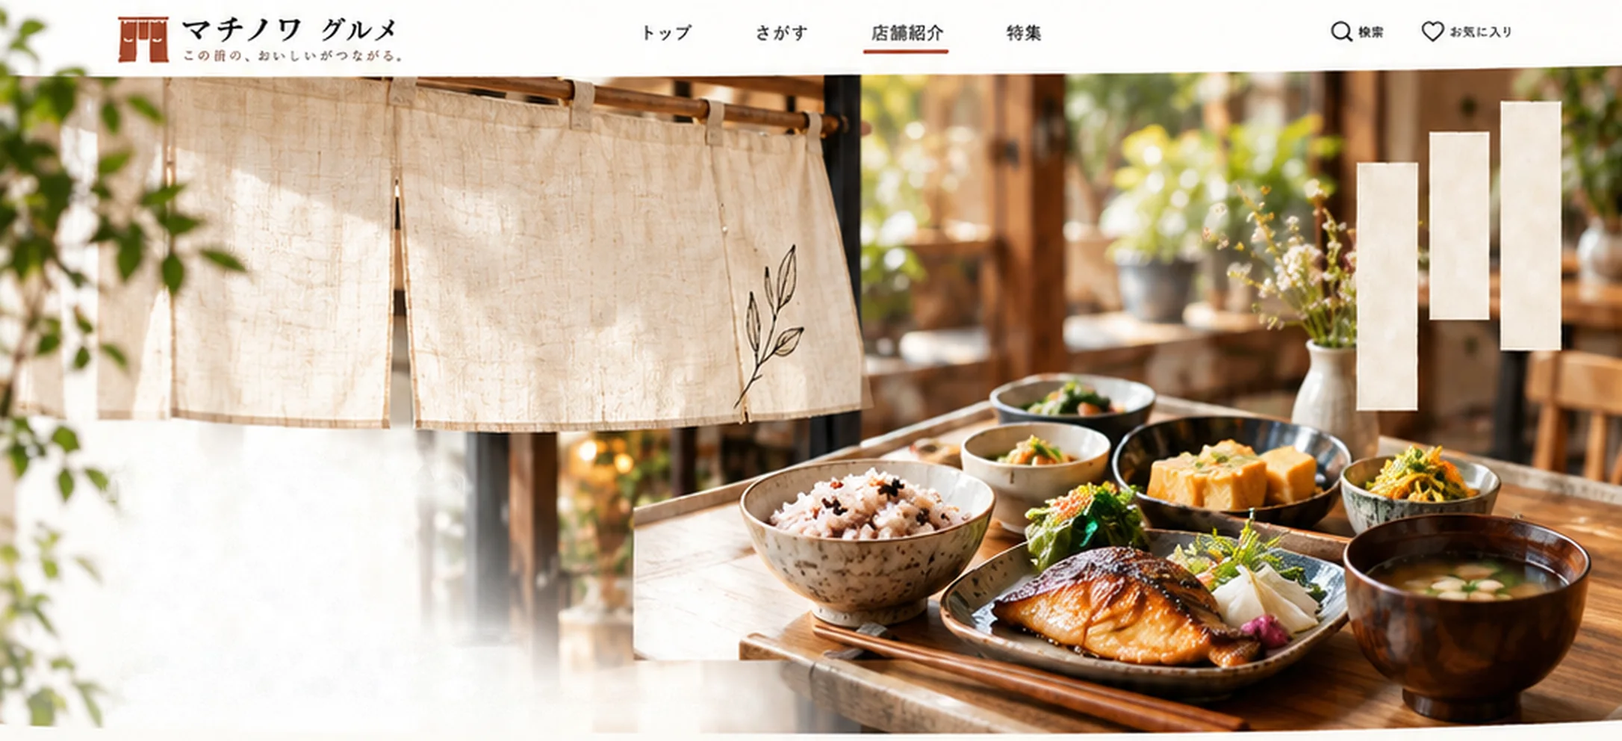
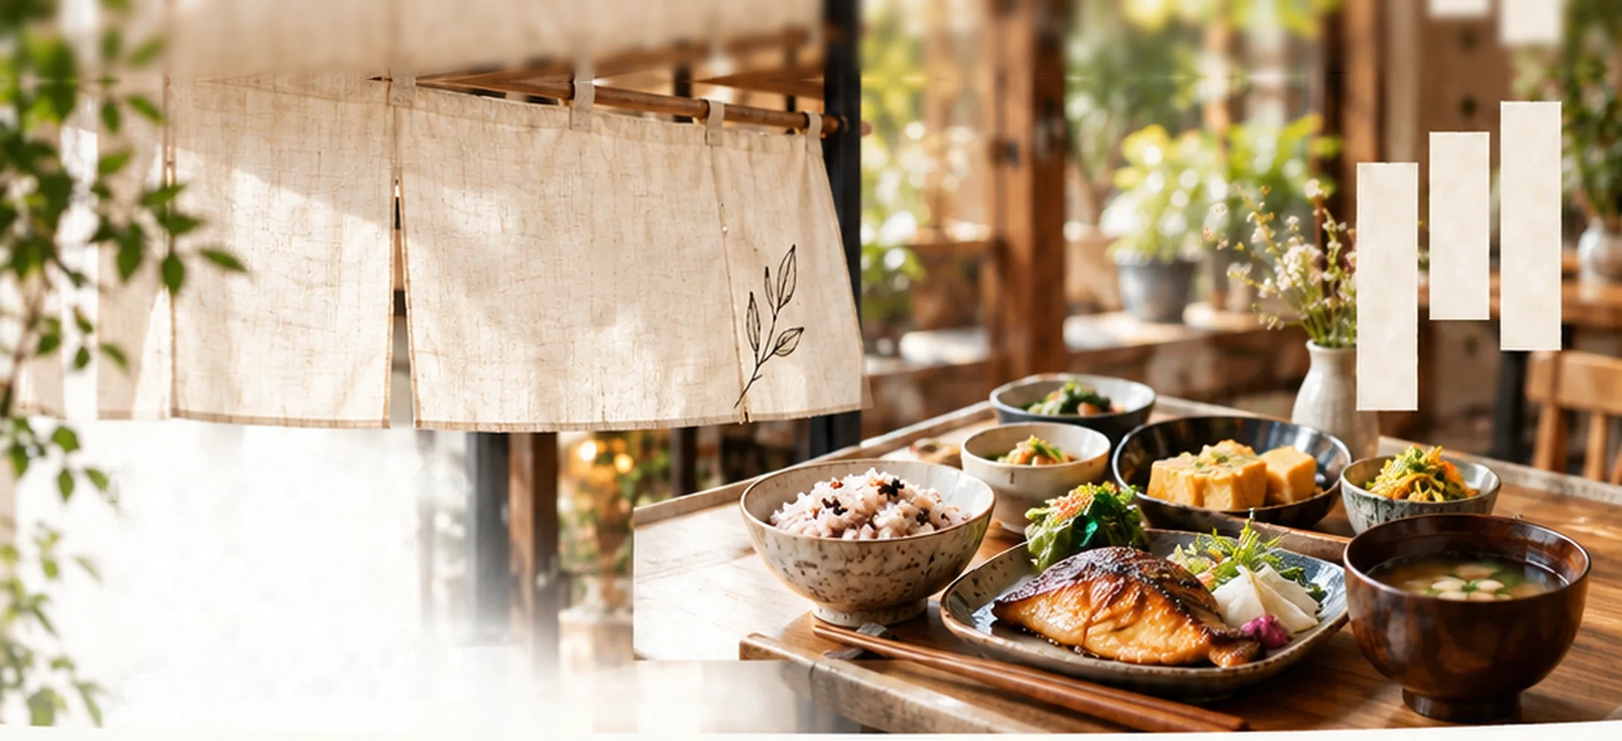
fix(gourmet-proto): 暖簾2 レビュー指摘の修正(ライトボックス portal 化・検索クリア・横持ちスマホ・1920 端・画像ゴースト・コントラスト・タップ領域)
- 店のライトボックスを createPortal で body へ(ヘッダーまで全面を覆う・背景スクロール固定・Tab 循環)。CSS は .gn-root 外で完結
- 検索「条件をクリア」をタイトルの流れの中へ(PC でタイトルと重なって押せなかった)
- 横持ちスマホ(orientation:landscape かつ高さ500px以下)も縮小PCでなくスマホ版に(@media の条件を全ページ共通に)
- 店ヒーロー画像の見本ヘッダー跡を除去 / 1440px 超でヒーロー左右端を地へ溶かす(top 以外 4 ページ)
- feature の shopfront.webp のボタン断片を除去し、スマホは左だけを切り出し
- 検索リスト表示の未選択ハートをテラコッタ線に
- スマホの写真上の文字に幕(特集カード・店のシーンカード)
- フッター/パンくずのタップ領域 44px・ロゴ標語 10px・検索プレースホルダをスマホで短縮

Changed region(s): [[0.0, 0.0, 1.0, 0.125]]

diff --git a/components/portal/gnoren/shop/shop.css b/components/portal/gnoren/shop/shop.css
@@ -18,21 +18,42 @@
   .gn-shop-strips { animation-delay: .25s; }
 }
 
-/* ライトボックス */
-.gn-shop-lb { position: fixed; inset: 0; z-index: 200; background: rgba(28, 22, 18, .88); display: grid; place-items: center; padding: 24px; }
-.gn-shop-lb-fig { margin: 0; max-width: min(1100px, 100%); display: grid; gap: 10px; justify-items: center; }
-.gn-shop-lb-fig img { max-width: 100%; max-height: 78vh; width: auto; height: auto; border-radius: 6px; box-shadow: 0 10px 40px rgba(0, 0, 0, .5); background: #222; }
+/* ライトボックス(Gallery.tsx が document.body へ portal で出す。.gn-root / .gn-shop の外なので、ここだけで完結させる)
+   画面全体(ヘッダーの上)を覆う。書体は next/font の変数(--gn-gothic)を Gallery が付ける。 */
+.gn-shop-lb { position: fixed; inset: 0; z-index: 10000; background: rgba(28, 22, 18, .9); display: grid; place-items: center; padding: 56px 84px; overscroll-behavior: contain; font-family: var(--gn-gothic), "Zen Kaku Gothic New", "Hiragino Kaku Gothic ProN", "Noto Sans JP", sans-serif; line-height: 1.6; -webkit-font-smoothing: antialiased; }
+.gn-shop-lb, .gn-shop-lb * { box-sizing: border-box; cursor: auto; }
+.gn-shop-lb button { cursor: pointer; font: inherit; }
+.gn-shop-lb-fig { margin: 0; padding: 0; width: 100%; display: grid; gap: 12px; justify-items: center; }
+/* 切り出した小さい写真でも画面いっぱいまで拡大して見せる(縦横比は --ar。高さ・幅のどちらか先に届くほうで止める) */
+.gn-shop-lb { --lb-h: calc(100vh - 140px); --lb-h: calc(100dvh - 140px); }
+.gn-shop-lb-ph { width: min(100%, 1100px, calc(var(--lb-h) * var(--ar, 1.5))); aspect-ratio: var(--ar, 1.5); overflow: hidden; border-radius: 6px; box-shadow: 0 10px 40px rgba(0, 0, 0, .5); background: #222; }
+/* 切り出し画像の縁に見本由来の白いにじみが 2〜4px あるので、少し拡大して隠す */
+.gn-shop-lb-ph img { display: block; width: 100%; height: 100%; max-width: none; object-fit: cover; transform: scale(1.045); }
 .gn-shop-lb-fig figcaption { color: #f1e9de; font-size: 14px; letter-spacing: .06em; text-align: center; }
-.gn-shop-lb-close, .gn-shop-lb-nav { position: absolute; width: 48px; height: 48px; border-radius: 50%; border: 1px solid rgba(255, 255, 255, .35); background: rgba(255, 255, 255, .1); color: #fff; display: grid; place-items: center; padding: 0; cursor: pointer; }
-.gn-shop-lb-close:hover, .gn-shop-lb-nav:hover { background: rgba(255, 255, 255, .22); }
+.gn-shop-lb-close, .gn-shop-lb-nav { position: absolute; width: 48px; height: 48px; border-radius: 50%; border: 1px solid rgba(255, 255, 255, .45); background: rgba(40, 32, 26, .6); color: #fff; display: grid; place-items: center; padding: 0; margin: 0; }
+.gn-shop-lb-close:hover, .gn-shop-lb-nav:hover { background: rgba(255, 255, 255, .24); }
 .gn-shop-lb-close { top: 16px; right: 16px; }
 .gn-shop-lb-nav { top: 50%; margin-top: -24px; }
-.gn-shop-lb-prev { left: 14px; } .gn-shop-lb-next { right: 14px; }
+.gn-shop-lb-prev { left: 16px; } .gn-shop-lb-next { right: 16px; }
 .gn-shop-lb svg { width: 22px; height: 22px; fill: none; stroke: currentColor; stroke-width: 1.8; stroke-linecap: round; stroke-linejoin: round; }
 .gn-shop-lb button:focus-visible { outline: 2px solid #fff; outline-offset: 2px; }
+/* 縦持ちのスマホ・狭い画面: 前へ/次へは下に並べて、写真を幅いっぱいに見せる */
+@media (max-width: 768px) and (orientation: portrait) {
+  .gn-shop-lb { padding: 72px 12px 92px; }
+  .gn-shop-lb { --lb-h: calc(100vh - 230px); --lb-h: calc(100dvh - 230px); }
+  .gn-shop-lb-nav { top: auto; bottom: 20px; margin-top: 0; }
+  .gn-shop-lb-prev { left: 20px; } .gn-shop-lb-next { right: 20px; }
+}
+/* 横持ちのスマホ(高さが低い): 写真を縦いっぱいに */
+@media (orientation: landscape) and (max-height: 500px) {
+  .gn-shop-lb { padding: 12px 76px; }
+  .gn-shop-lb-fig { gap: 6px; }
+  .gn-shop-lb { --lb-h: calc(100vh - 56px); --lb-h: calc(100dvh - 56px); }
+  .gn-shop-lb-fig figcaption { font-size: 13px; }
+}
 
 /* ═════════ PC ═════════ */
-@media (min-width: 769px) {
+@media (min-width: 769px) and (min-height: 501px) {
   .gn-shop { padding-bottom: calc(var(--u) * 30); }
   .gn-shop-hero { height: calc(var(--u) * 496); }
   .gn-shop-herobg { position: absolute; inset: 0; width: 100%; height: 100%; max-width: none; }
@@ -155,7 +176,7 @@
 }
 
 /* ═════════ スマホ(≤768px) ═════════ */
-@media (max-width: 768px) {
+@media (max-width: 768px), (orientation: landscape) and (max-height: 500px) {
   .gn-shop { padding-bottom: 40px; }
   .gn-shop-h2 { font-size: 22px; line-height: 1.4; letter-spacing: .06em; }
 
@@ -252,6 +273,12 @@
   .gn-shop-sc-list { display: grid; grid-template-columns: 1fr 1fr; gap: 12px; margin-top: 12px; }
   .gn-shop-sc { position: relative; height: 116px; border-radius: 6px; overflow: hidden; }
   .gn-shop-sc img { width: 100%; height: 100%; object-fit: cover; max-width: none; }
-  .gn-shop-sc-t { position: absolute; left: 14px; top: 50%; transform: translateY(-50%); margin: 0; font-size: 17px; line-height: 1.5; letter-spacing: .06em; color: #fff; font-weight: 500; text-shadow: 0 1px 6px rgba(50, 30, 15, .55); }
+  .gn-shop-sc::after { content: ""; position: absolute; inset: 0; pointer-events: none; background: linear-gradient(90deg, rgba(34, 20, 12, .52) 0%, rgba(34, 20, 12, .32) 55%, rgba(34, 20, 12, .06) 100%), linear-gradient(0deg, rgba(34, 20, 12, .25), transparent 50%); }
+  .gn-shop-sc-t { z-index: 1; position: absolute; left: 14px; top: 50%; transform: translateY(-50%); margin: 0; font-size: 17px; line-height: 1.5; letter-spacing: .06em; color: #fff; font-weight: 500; text-shadow: 0 1px 6px rgba(50, 30, 15, .55); }
   .gn-shop-sc-t span { display: block; }
+}
+
+/* 1440px より広い画面: ヒーロー写真の左右の端を地へ溶かす(1440px 以下は何も変えない) */
+@media (min-width: 1441px) and (min-height: 501px) {
+  .gn-shop-herobg { -webkit-mask-image: linear-gradient(90deg, transparent, #000 5%, #000 95%, transparent); mask-image: linear-gradient(90deg, transparent, #000 5%, #000 95%, transparent); }
 }

diff --git a/components/portal/gnoren/search/search.css b/components/portal/gnoren/search/search.css
@@ -118,11 +118,11 @@
 /* ───────── 検索結果(853〜) ───────── */
 .gn-search-results { position: relative; padding: calc(var(--u) * 22) calc(var(--u) * 46) calc(var(--u) * 8) calc(var(--u) * 40); min-height: calc(var(--u) * 595); }
 .gn-search-rhead { position: relative; display: flex; align-items: center; height: calc(var(--u) * 34); margin-bottom: 0; }
-.gn-search-rtitle { position: absolute; left: 0; top: 0; height: calc(var(--u) * 34); display: flex; align-items: flex-end; gap: 0; font-family: var(--gn-f-mincho); color: #1f1a17; line-height: 1; }
+.gn-search-rtitle { position: relative; flex: none; height: calc(var(--u) * 34); display: flex; align-items: flex-end; gap: 0; font-family: var(--gn-f-mincho); color: #1f1a17; line-height: 1; }
 .gn-search-rtitle-l { font-weight: 600; font-size: calc(var(--u) * 17.5); letter-spacing: .06em; margin-bottom: calc(var(--u) * 4); }
 .gn-search-rtitle b { margin-left: calc(var(--u) * 17); font-weight: 500; font-size: calc(var(--u) * 41); color: var(--gn-red-num); letter-spacing: .01em; }
 .gn-search-rtitle-r { margin-left: calc(var(--u) * 5); font-weight: 600; font-size: calc(var(--u) * 13.4); margin-bottom: calc(var(--u) * 1); }
-.gn-search .gn-search-clear { margin-left: calc(var(--u) * 24); font-size: max(11px, calc(var(--u) * 11)); color: var(--gn-terracotta); text-decoration: underline; text-underline-offset: 3px; }
+.gn-search .gn-search-clear { position: relative; z-index: 1; flex: none; margin-left: calc(var(--u) * 24); padding: calc(var(--u) * 6) calc(var(--u) * 2); font-size: max(11px, calc(var(--u) * 11)); color: var(--gn-terracotta); text-decoration: underline; text-underline-offset: 3px; }
 .gn-search-sort { position: absolute; left: calc(var(--u) * 797); top: calc(var(--u) * 0); width: calc(var(--u) * 121); height: calc(var(--u) * 29); display: block; border-radius: calc(var(--u) * 5); background: #fff; box-shadow: 0 0 0 1px #e8e1d7, 0 1px 3px rgba(90, 70, 50, .06); }
 .gn-search-sort select { width: 100%; height: 100%; border: 0; border-radius: inherit; background: transparent; padding: 0 calc(var(--u) * 24) 0 calc(var(--u) * 10); font: inherit; font-size: calc(var(--u) * 10.3); font-weight: 500; letter-spacing: .06em; color: #3a332e; -webkit-appearance: none; appearance: none; cursor: pointer; }
 .gn-search-sort svg { position: absolute; right: calc(var(--u) * 11); top: 50%; width: calc(var(--u) * 8); margin-top: calc(var(--u) * -2.5); height: auto; pointer-events: none; color: #3a2f28; }
@@ -183,9 +183,11 @@
 .gn-search[data-view="list"] .gn-search-card-name { font-size: calc(var(--u) * 17); }
 .gn-search[data-view="list"] .gn-search-card-desc br { display: none; }
 .gn-search[data-view="list"] .gn-search-heart, .gn-search[data-view="list"] .gn-search-card:nth-child(n + 5) .gn-search-heart { top: calc(var(--u) * 12); }
+/* リスト表示ではハートが白いカード本体の上に乗るので、未選択は白でなくテラコッタの線にする(グリッド表示は写真の上なので白のまま) */
+.gn-search[data-view="list"] .gn-search-heart[data-on="0"] span { background: #fff; color: #a8472c; box-shadow: inset 0 0 0 1.5px rgba(168, 71, 44, .6), 0 1px 3px rgba(80, 60, 40, .12); backdrop-filter: none; }
 
 /* ───────── スマホ(≤768px) ───────── */
-@media (max-width: 768px) {
+@media (max-width: 768px), (orientation: landscape) and (max-height: 500px) {
   .gn-search { width: 100%; }
   .gn-search-hero { height: auto; }
   .gn-search-hero-img { position: relative; inset: auto; display: block; width: 100%; height: 210px; object-fit: cover; object-position: 66% 40%; object-view-box: inset(14.8% 0 0 0); }
@@ -297,11 +299,16 @@
   .gn-search[data-view="list"] .gn-search-heart { right: 0; top: 0; }
   .gn-search-empty { margin-top: 8px; padding: 36px 16px; }
 }
-@media (min-width: 560px) and (max-width: 768px) {
+@media (min-width: 560px) and (max-width: 768px), (min-width: 560px) and (orientation: landscape) and (max-height: 500px) {
   .gn-search-grid { grid-template-columns: 1fr 1fr; gap: 16px; }
   .gn-search[data-view="list"] .gn-search-grid { grid-template-columns: 1fr; }
   .gn-search-hero-img { height: 290px; }
 }
 @media (prefers-reduced-motion: reduce) {
   .gn-search *, .gn-search *::before, .gn-search *::after { transition: none !important; animation: none !important; }
+}
+
+/* 1440px より広い画面: ヒーロー写真の左右の端を地へ溶かす */
+@media (min-width: 1441px) and (min-height: 501px) {
+  .gn-search-hero-img { -webkit-mask-image: linear-gradient(90deg, transparent, #000 5%, #000 95%, transparent); mask-image: linear-gradient(90deg, transparent, #000 5%, #000 95%, transparent); }
 }

diff --git a/components/portal/gnoren/shop/Gallery.tsx b/components/portal/gnoren/shop/Gallery.tsx
@@ -1,11 +1,17 @@
 "use client";
 
 import { useCallback, useEffect, useRef, useState } from "react";
+import { createPortal } from "react-dom";
+import { gothic } from "../common/fonts";
 import { GALLERY } from "./data";
 
 const IMG = "/_portal/gnoren/shop";
 
-/** 店内の様子。写真を押すと簡単なライトボックス(Esc・閉じるボタン・背景クリック・←→ で閉じる/移動)。 */
+/**
+ * 店内の様子。写真を押すと簡単なライトボックス(Esc・閉じるボタン・背景クリック・←→ で閉じる/移動)。
+ * ライトボックスは document.body へ createPortal で出す(祖先に transform=スクロールで出る動き / container-type があると
+ * position:fixed がその祖先の中に閉じ込められるため)。そのため CSS は .gn-root / .gn-shop の外でも効くように書く(shop.css の .gn-shop-lb*)。
+ */
 export default function Gallery() {
   const [open, setOpen] = useState<number | null>(null);
   const lastBtn = useRef<HTMLButtonElement | null>(null);
@@ -20,9 +26,19 @@ export default function Gallery() {
     if (open === null) return;
     const prev = document.body.style.overflow;
     document.body.style.overflow = "hidden";
+    const prevHtml = document.documentElement.style.overflow;
+    document.documentElement.style.overflow = "hidden";
     closeRef.current?.focus();
     const onKey = (e: KeyboardEvent) => {
-      if (e.key === "Escape") close();
+      if (e.key === "Tab") {
+        // ダイアログの外へフォーカスが出ないように、中のボタンだけで回す
+        const btns = Array.from(document.querySelectorAll<HTMLButtonElement>(".gn-shop-lb button"));
+        if (btns.length === 0) return;
+        const i = btns.indexOf(document.activeElement as HTMLButtonElement);
+        const next = e.shiftKey ? (i <= 0 ? btns.length - 1 : i - 1) : i === btns.length - 1 ? 0 : i + 1;
+        e.preventDefault();
+        btns[next].focus();
+      } else if (e.key === "Escape") close();
       else if (e.key === "ArrowRight") setOpen((i) => (i === null ? i : (i + 1) % GALLERY.length));
       else if (e.key === "ArrowLeft") setOpen((i) => (i === null ? i : (i - 1 + GALLERY.length) % GALLERY.length));
     };
@@ -30,6 +46,7 @@ export default function Gallery() {
     return () => {
       window.removeEventListener("keydown", onKey);
       document.body.style.overflow = prev;
+      document.documentElement.style.overflow = prevHtml;
     };
   }, [open, close]);
 
@@ -54,8 +71,9 @@ export default function Gallery() {
         ))}
       </ul>
 
-      {open !== null && (
-        <div className="gn-shop-lb" role="dialog" aria-modal="true" aria-label="店内の写真" onClick={close}>
+      {open !== null &&
+        createPortal(
+        <div className={`gn-shop-lb ${gothic.variable}`} role="dialog" aria-modal="true" aria-label="店内の写真" onClick={close}>
           <button ref={closeRef} type="button" className="gn-shop-lb-close" aria-label="閉じる" onClick={close}>
             <svg viewBox="0 0 24 24" aria-hidden="true">
               <path d="M5 5l14 14M19 5 5 19" />
@@ -75,8 +93,10 @@ export default function Gallery() {
             </svg>
           </button>
           <figure className="gn-shop-lb-fig" onClick={(e) => e.stopPropagation()}>
-            {/* eslint-disable-next-line @next/next/no-img-element */}
-            <img src={`${IMG}/${GALLERY[open].img}.webp`} alt={GALLERY[open].alt} />
+            <div className="gn-shop-lb-ph" style={{ "--ar": GALLERY[open].w / GALLERY[open].h } as React.CSSProperties}>
+              {/* eslint-disable-next-line @next/next/no-img-element */}
+              <img src={`${IMG}/${GALLERY[open].img}.webp`} alt={GALLERY[open].alt} width={GALLERY[open].w} height={GALLERY[open].h} />
+            </div>
             <figcaption>
               {GALLERY[open].alt}({open + 1} / {GALLERY.length})
             </figcaption>
@@ -94,7 +114,8 @@ export default function Gallery() {
               <path d="M9 5l7 7-7 7" />
             </svg>
           </button>
-        </div>
+        </div>,
+        document.body,
       )}
     </>
   );

diff --git a/components/portal/gnoren/feature/feature.css b/components/portal/gnoren/feature/feature.css
@@ -92,7 +92,7 @@
 }
 
 /* ───────── スマホ(≤768px): 縦 1 列 ───────── */
-@media (max-width: 768px) {
+@media (max-width: 768px), (orientation: landscape) and (max-height: 500px) {
   .gn-feat { --step: 0px; padding-bottom: 0; }
   .gn-feat-br { display: none; }
 
@@ -101,7 +101,7 @@
   .gn-feat .gn-feat-hero-img { display: none; }
   .gn-feat-hero-img-m { order: 3; width: 100%; height: auto; aspect-ratio: 498 / 388; margin-top: 18px; }
   .gn-feat-crumb { order: 1; display: flex; flex-wrap: wrap; align-items: center; gap: 0 8px; padding: 4px 16px 0; font-size: 12px; letter-spacing: .06em; color: #5a504a; }
-  .gn-feat-crumb a { display: inline-flex; align-items: center; min-height: 44px; padding-inline: 2px; }
+  .gn-feat-crumb a { display: inline-flex; align-items: center; justify-content: center; min-height: 44px; min-width: 44px; padding-inline: 4px; }
   .gn-feat-crumb [aria-current] { display: inline-flex; align-items: center; min-height: 44px; }
   .gn-feat-card { order: 2; position: relative; margin: 6px 14px 0; padding: 44px 22px 26px; }
   .gn-feat-card-bg { position: absolute; inset: 0; background-color: #f4efe6; box-shadow: none; clip-path: polygon(0.5% 2%, 30% 0.6%, 62% 1.4%, 99.5% 0, 100% 40%, 99% 99.5%, 60% 100%, 28% 99%, 0 100%, 0.6% 50%); filter: drop-shadow(0 2px 4px rgba(60, 40, 20, .18)); }
@@ -191,9 +191,9 @@
   .gn-feat-shop-list a { display: inline-flex; align-items: center; min-height: 44px; margin-block: -10px; }
   .gn-feat-btn { display: flex; width: 100%; min-height: 52px; margin-top: 20px; gap: 12px; font-size: 15px; }
   .gn-feat-btn-arrow { width: 26px; }
-  .gn-feat-frame { margin: 14px auto 0; padding: 5px; width: min(100%, 280px); aspect-ratio: 111 / 136; }
-  .gn-feat-frame img { object-position: 0 0 !important; }
-  .gn-feat-frame img { object-position: 0 50%; }
+  /* 元画像(326×314)は右にメモ紙の端が写っているので、左の 195×270 だけを使う(スマホは横長の写真の左上を切り出す) */
+  .gn-feat-frame { margin: 14px auto 0; padding: 5px; width: min(100%, 280px); aspect-ratio: 195 / 270; overflow: hidden; }
+  .gn-feat-frame img { width: 167.2%; height: auto; max-width: none; object-fit: fill; }
   .gn-feat-n5 { width: 82%; max-width: 360px; margin: 22px 0 0 auto; }
   .gn-feat-n5 .gn-feat-ln { padding-left: calc(var(--i, 0) * 10px); }
   .gn-feat-leaf-tr { width: 72px; top: -40px; right: 0; }
@@ -201,7 +201,7 @@
 }
 
 /* ───────── PC(>768px): 見本の座標どおり(--u = 見本の 1 画素) ───────── */
-@media (min-width: 769px) {
+@media (min-width: 769px) and (min-height: 501px) {
   .gn-feat { width: calc(var(--u) * 1086); height: calc(var(--u) * 1448); margin-inline: auto; padding-bottom: 0; --step: 0px; }
   .gn-feat-hero, .gn-feat-card, .gn-feat-panel, .gn-feat-strips, .gn-feat-sec { display: contents; }
   .gn-feat .gn-feat-hero-img-m { display: none; }
@@ -310,4 +310,10 @@
   .gn-feat-n5 .gn-feat-paper { height: 100%; padding: calc(var(--u) * 26) 0 0 calc(var(--u) * 20); font-size: calc(var(--u) * 12.2); line-height: calc(var(--u) * 21); letter-spacing: .06em; --step: calc(var(--u) * 7); }
   .gn-feat-leaf-tr { left: calc(var(--u) * 985); top: calc(var(--u) * 1200); width: calc(var(--u) * 101); z-index: 3; }
   .gn-feat-leaf-bl { left: 0; top: calc(var(--u) * 1320); width: calc(var(--u) * 70); z-index: 3; }
+}
+
+/* 1440px より広い画面: ヒーロー写真の左端・右の紙の右端を地へ溶かす(幅は 72px = top の 5% と同じ) */
+@media (min-width: 1441px) and (min-height: 501px) {
+  .gn-feat-hero-img { -webkit-mask-image: linear-gradient(90deg, transparent, #000 72px); mask-image: linear-gradient(90deg, transparent, #000 72px); }
+  .gn-feat .gn-feat-panel-bg { -webkit-mask-image: linear-gradient(90deg, #000 calc(100% - 72px), transparent); mask-image: linear-gradient(90deg, #000 calc(100% - 72px), transparent); }
 }

diff --git a/components/portal/gnoren/search/SearchView.tsx b/components/portal/gnoren/search/SearchView.tsx
@@ -1,7 +1,7 @@
 "use client";
 
 import Link from "next/link";
-import { useMemo, useState } from "react";
+import { useEffect, useMemo, useState } from "react";
 import { HeartIcon, SearchIcon } from "../common/icons";
 import { AREAS, CUISINES, SCENES, SHOPS, type AreaKey, type CuisineKey, type SceneKey, type Shop } from "./data";
 import { ArrowIcon, ChevronDown, ChevronRight, CupIcon, CuisineIcon, DishMark, GridIcon, ListIcon, PinIcon, TagGlyph } from "./icons";
@@ -13,6 +13,11 @@ const TOTAL = 509; // 見本の「509 件」(仮)
 
 type Sort = "recommend" | "walk" | "name";
 
+// スマホ(search.css の mobile と同じ条件)では入力欄が狭いので、プレースホルダを短くする
+const MOBILE_MQ = "(max-width: 768px), (orientation: landscape) and (max-height: 500px)";
+const PH_PC = "エリア・駅名・店名・キーワードで探す";
+const PH_M = "エリア・店名・キーワード";
+
 export default function SearchView() {
   const [q, setQ] = useState("");
   const [cuisine, setCuisine] = useState<CuisineKey | null>(null);
@@ -22,6 +27,14 @@ export default function SearchView() {
   const [view, setView] = useState<"grid" | "list">("grid");
   const [liked, setLiked] = useState<Record<string, boolean>>(() => Object.fromEntries(SHOPS.map((s) => [s.id, s.liked])));
   const [mapOpen, setMapOpen] = useState(false);
+  const [ph, setPh] = useState(PH_PC);
+  useEffect(() => {
+    const mq = window.matchMedia(MOBILE_MQ);
+    const apply = () => setPh(mq.matches ? PH_M : PH_PC);
+    apply();
+    mq.addEventListener("change", apply);
+    return () => mq.removeEventListener("change", apply);
+  }, []);
 
   const filtered = useMemo(() => {
     const kw = q.trim().toLowerCase();
@@ -130,7 +143,7 @@ export default function SearchView() {
               type="search"
               value={q}
               onChange={(e) => setQ(e.target.value)}
-              placeholder="エリア・駅名・店名・キーワードで探す"
+              placeholder={ph}
               aria-label="キーワードで探す"
               enterKeyHint="search"
             />

diff --git a/components/portal/gnoren/featurelist/featurelist.css b/components/portal/gnoren/featurelist/featurelist.css
@@ -130,7 +130,7 @@
 }
 
 /* ───────── スマホ(≤768px) ───────── */
-@media (max-width: 768px) {
+@media (max-width: 768px), (orientation: landscape) and (max-height: 500px) {
   .gn-fl { --s: 1.3px; }
   .gn-fl > section { width: 100%; }
   .gn-fl > section, .gn-fl-pick, .gn-fl-card, .gn-fl-ni { height: auto; }
@@ -207,7 +207,7 @@
   .gn-fl-band-btn { width: min(100%, 320px); height: 52px; margin: 22px auto 0; font-size: 15px; gap: 12px; }
   .gn-fl-band-btn svg { width: 16px; }
 }
-@media (min-width: 561px) and (max-width: 768px) {
+@media (min-width: 561px) and (max-width: 768px), (min-width: 561px) and (orientation: landscape) and (max-height: 500px) {
   .gn-fl-cards { grid-template-columns: repeat(2, 1fr); gap: 28px 18px; }
   .gn-fl-card-t br { display: none; }
   .gn-fl-card-t { font-size: 16px; }
@@ -220,4 +220,9 @@
 .gn-fl a.gn-fl-pick-link { color: #fff; }
 .gn-fl a.gn-fl-card, .gn-fl a.gn-fl-ni-a { color: var(--gn-fl-ink); }
 .gn-fl-peg { position: absolute; z-index: 3; width: calc(var(--u) * 9); height: calc(var(--u) * 10); margin: calc(var(--u) * -5) 0 0 calc(var(--u) * -4.5); background: linear-gradient(180deg, #b98852, #8a5b30 60%, #6e4524); border-radius: calc(var(--u) * 1); box-shadow: 0 1px 1.5px rgba(40, 25, 10, .3); pointer-events: none; }
-@media (max-width: 768px) { .gn-fl-peg { display: none; } }
+@media (max-width: 768px), (orientation: landscape) and (max-height: 500px) { .gn-fl-peg { display: none; } }
+
+/* 1440px より広い画面: ヒーロー写真の左右の端を地へ溶かす */
+@media (min-width: 1441px) and (min-height: 501px) {
+  .gn-fl-hero-bg { -webkit-mask-image: linear-gradient(90deg, transparent, #000 5%, #000 95%, transparent); mask-image: linear-gradient(90deg, transparent, #000 5%, #000 95%, transparent); }
+}

diff --git a/components/portal/gnoren/common/base.css b/components/portal/gnoren/common/base.css
@@ -121,7 +121,7 @@ body:has(.gn-root) > .cursor-dot, body:has(.gn-root) > .cursor-ring { display: n
 .gn-foot-copy { font-size: max(11px, calc(var(--u) * 10)); color: var(--gn-muted); letter-spacing: .06em; }
 
 /* ───────── スマホ(≤768px) ───────── */
-@media (max-width: 768px) {
+@media (max-width: 768px), (orientation: landscape) and (max-height: 500px) {
   .gn-root { --u: 1px; }
   .gn-wrap { width: 100%; padding-inline: 16px; }
 
@@ -131,7 +131,7 @@ body:has(.gn-root) > .cursor-dot, body:has(.gn-root) > .cursor-ring { display: n
   .gn-logo { position: static; align-items: center; gap: 8px; min-height: 44px; }
   .gn-logo-mark { width: 28px; margin-top: 0; }
   .gn-logo-name { font-size: 17px; line-height: 20px; }
-  .gn-logo-tag { font-size: 8px; line-height: 10px; margin-top: 2px; letter-spacing: .1em; }
+  .gn-logo-tag { font-size: 10px; line-height: 12px; margin-top: 2px; letter-spacing: .06em; }
   .gn-nav, .gn-tools { display: none; }
 
   .gn-burger { display: grid; place-items: center; width: 44px; height: 44px; padding: 0; border: 0; background: transparent; color: #26211d; cursor: pointer; }
@@ -155,6 +155,6 @@ body:has(.gn-root) > .cursor-dot, body:has(.gn-root) > .cursor-ring { display: n
   .gn-foot-in { flex-direction: column; align-items: flex-start; gap: 18px; padding-inline: 16px; }
   .gn-foot-logo .gn-logo-name { font-size: 18px; }
   .gn-foot-nav { margin-left: 0; flex-wrap: wrap; gap: 4px 22px; font-size: 15px; }
-  .gn-foot-nav a { min-height: 44px; display: inline-flex; align-items: center; }
+  .gn-foot-nav a { min-height: 44px; min-width: 44px; padding-inline: 4px; display: inline-flex; align-items: center; justify-content: center; }
   .gn-foot-copy { font-size: 12px; }
 }

diff --git a/components/portal/gnoren/top/top.css b/components/portal/gnoren/top/top.css
@@ -127,7 +127,7 @@
 .gn-top-fcard.is-dark .gn-top-fcard-s { color: #5c4d40; }
 
 /* ═════════ PC(≥769px): 見本の座標どおり ═════════ */
-@media (min-width: 769px) {
+@media (min-width: 769px) and (min-height: 501px) {
   .gn-top { padding: 0; }
   .gn-top-in { width: calc(var(--u) * 1086); height: calc(var(--u) * 1448); margin-inline: auto; }
   .gn-top-hero, .gn-top-stats, .gn-top-sec { position: absolute; left: 0; width: calc(var(--u) * 1086); top: calc(var(--u) * var(--s)); height: calc(var(--u) * var(--h)); padding: 0; }
@@ -208,8 +208,16 @@
 }
 
 /* 1440px より広い画面: ヒーローの左右の端を地へ溶かす */
-@media (min-width: 1441px) {
+@media (min-width: 1441px) and (min-height: 501px) {
   .gn-top-hero-bg { -webkit-mask-image: linear-gradient(90deg, transparent, #000 5%, #000 95%, transparent); mask-image: linear-gradient(90deg, transparent, #000 5%, #000 95%, transparent); }
+}
+
+/* スマホ: 写真の上の文字が読めるよう、文字側(左)に薄い幕を敷く(PC は見本どおり幕なし) */
+@media (max-width: 768px), (orientation: landscape) and (max-height: 500px) {
+  .gn-top-fcard::after { content: ""; position: absolute; inset: 0; pointer-events: none; }
+  .gn-top-fcard.is-light::after { background: linear-gradient(90deg, rgba(34, 20, 12, .52) 0%, rgba(34, 20, 12, .34) 50%, rgba(34, 20, 12, 0) 85%), linear-gradient(0deg, rgba(34, 20, 12, .3), transparent 45%); }
+  .gn-top-fcard.is-dark::after { background: linear-gradient(90deg, rgba(251, 246, 238, .74) 0%, rgba(251, 246, 238, .52) 55%, rgba(251, 246, 238, 0) 90%); }
+  .gn-top-fcard-t, .gn-top-fcard-s { z-index: 1; }
 }
 
 @media (prefers-reduced-motion: reduce) {

diff --git a/components/portal/gnoren/shop/data.ts b/components/portal/gnoren/shop/data.ts
@@ -27,11 +27,11 @@ export const MENU = [
 ];
 
 export const GALLERY = [
-  { img: "gallery1", alt: "木のテーブルと大きな窓のある店内" },
-  { img: "gallery2", alt: "あたたかな灯りの電球" },
-  { img: "gallery3", alt: "接客をするスタッフ" },
-  { img: "gallery4", alt: "花を飾ったテーブル" },
-  { img: "gallery5", alt: "緑が見える窓辺の席" },
+  { img: "gallery1", w: 734, h: 416, alt: "木のテーブルと大きな窓のある店内" },
+  { img: "gallery2", w: 282, h: 190, alt: "あたたかな灯りの電球" },
+  { img: "gallery3", w: 330, h: 190, alt: "接客をするスタッフ" },
+  { img: "gallery4", w: 338, h: 216, alt: "花を飾ったテーブル" },
+  { img: "gallery5", w: 274, h: 216, alt: "緑が見える窓辺の席" },
 ];
 
 export const INFO = [
